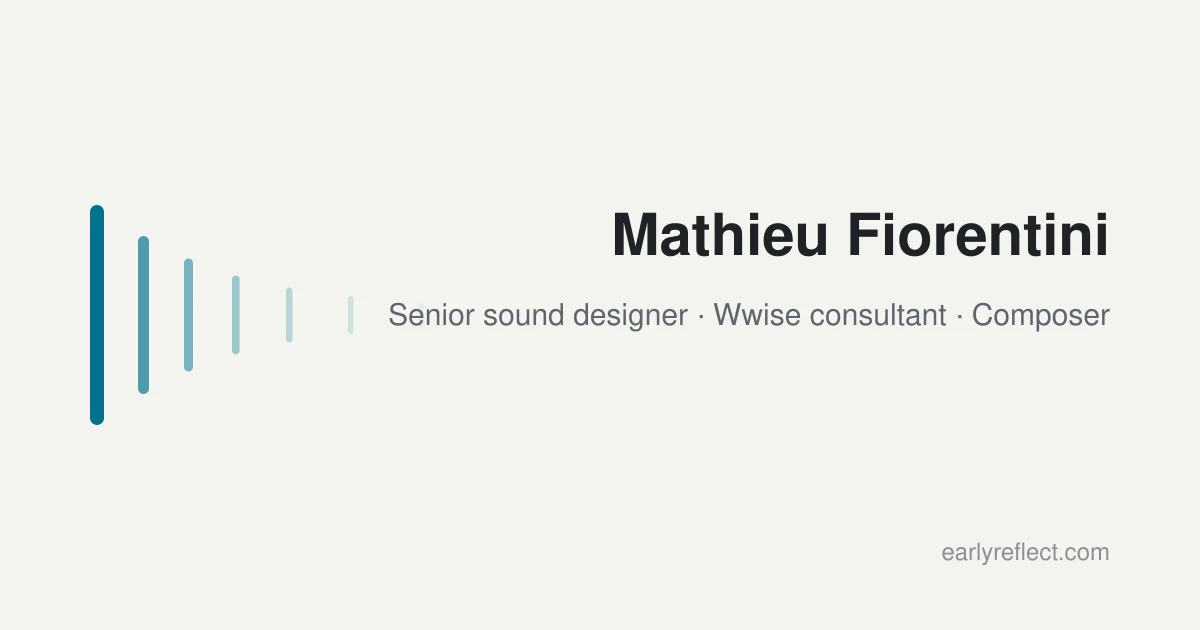
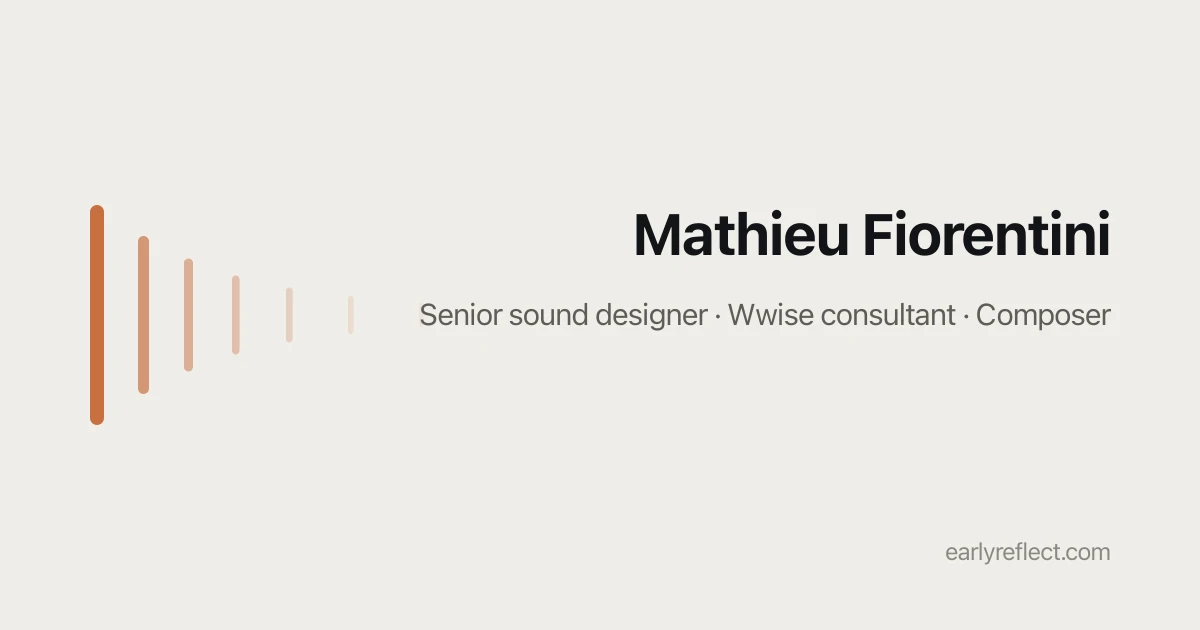
Apply copper and forest palette

diff --git a/src/styles/global.css b/src/styles/global.css
@@ -9,14 +9,15 @@
    Design tokens — retour V1 §4.2 (remplace spec §6.2)
    ============================================================ */
 @theme {
-  /* Couleurs — retour V1 §4.2 */
-  --color-paper: #f4f4f0;
-  --color-surface: #ffffff;
-  --color-ink: #000000;
-  --color-ink-muted: #5e656c;
-  --color-rule: #dce0dd;
-  --color-brand: #007190;
-  --color-brand-deep: #005a75;
+  --color-bg: #EFEDE8;
+  --color-surface: #F8F7F4;
+  --color-text: #121417;
+  --color-text-muted: #5F5C57;
+  --color-border: #D8D5CE;
+  --color-accent: #9A3D19;
+  --color-accent-2: #C8703F;
+  --color-tag-bg: #1F3A33;
+  --color-tag-text: #F8F7F4;
 
   /* §4.1 Typographie — Lato, base 18px, ratio 1.25 → 18/22.5/28/35/44/55 */
   --font-sans: "Lato", system-ui, sans-serif;
@@ -48,19 +49,58 @@
   }
 
   body {
-    @apply bg-paper font-sans text-ink antialiased;
+    @apply bg-bg font-sans text-text antialiased;
     font-size: var(--text-base);
+  }
+
+  a:not(.btn, .btn-primary, .btn-secondary, .site-brand, .nav-link, .language-switch, [data-project-card], .lite-embed-trigger) {
+    color: var(--color-accent);
+    text-decoration: underline;
+    text-underline-offset: 4px;
+    transition: opacity 150ms;
+  }
+
+  a:not(.btn, .btn-primary, .btn-secondary, .site-brand, .nav-link, .language-switch, [data-project-card], .lite-embed-trigger):hover {
+    opacity: 0.8;
+  }
+
+  .site-nav a[aria-current='page'] {
+    text-decoration: underline;
+    text-decoration-color: var(--color-accent);
+    text-underline-offset: 4px;
+  }
+
+  .btn-primary,
+  .btn-secondary {
+    text-decoration: none;
+  }
+
+  .site-nav button {
+    color: var(--color-text);
+    background-color: var(--color-bg);
+  }
+
+  input,
+  textarea,
+  select {
+    color: var(--color-text);
+  }
+
+  ::placeholder {
+    color: var(--color-text-muted);
+    opacity: 1;
   }
 
   /* Focus clavier = signal (§8 accessibilité) */
   :focus-visible {
-    outline: 2px solid var(--color-brand);
+    outline: 2px solid var(--color-accent);
     outline-offset: 2px;
     border-radius: var(--radius-media);
   }
 
   ::selection {
-    background-color: color-mix(in srgb, var(--color-brand) 20%, transparent);
+    background-color: color-mix(in srgb, var(--color-accent) 20%, transparent);
+    color: var(--color-text);
   }
 
   /* Chiffres tabulaires pour années et dates (§6.3) */
@@ -87,7 +127,7 @@
 
   /* Texte méta */
   .text-meta {
-    @apply text-ink-muted;
+    @apply text-text-muted;
   }
 
   /* Boutons : texte explicite, sans flèche (§6.5) */
@@ -97,22 +137,22 @@
     @apply inline-flex items-center rounded-(--radius-media) px-5 py-3 text-base font-medium transition-colors;
   }
   .btn-primary {
-    @apply bg-brand text-white hover:bg-brand-deep;
+    @apply bg-accent text-surface hover:opacity-80;
     /* outline signal invisible sur fond signal → contour ink décalé (§8) */
     &:focus-visible {
-      outline-color: var(--color-ink);
+      outline-color: var(--color-text);
     }
   }
   .btn-secondary {
-    @apply border border-rule text-ink hover:border-ink-muted;
+    @apply border border-border text-text hover:border-text-muted;
   }
 
   /* Pastilles de discipline (§5.2) */
   .pill {
-    @apply inline-flex items-center rounded-full border border-rule px-3 py-0.5 text-sm text-ink-muted;
+    @apply inline-flex items-center rounded-full border border-tag-bg bg-tag-bg px-3 py-0.5 text-sm text-tag-text;
   }
   .pill-active {
-    @apply border-brand bg-brand text-white;
+    @apply border-accent bg-accent text-surface;
   }
 
   /* Images : pas d'ombre, rayon 2px max, ratio 16:9 (§6.5) */
